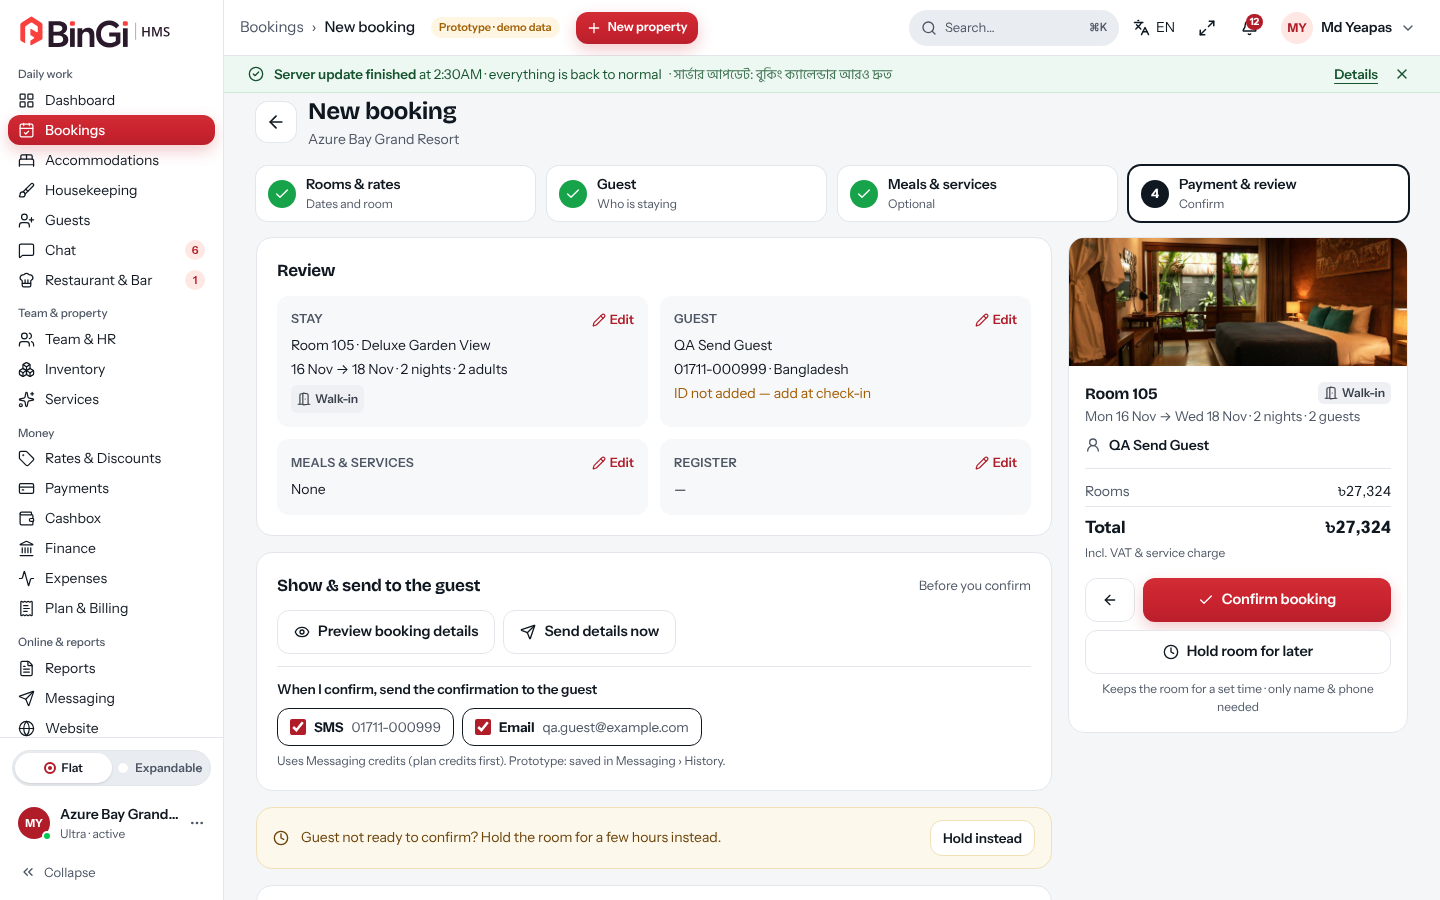
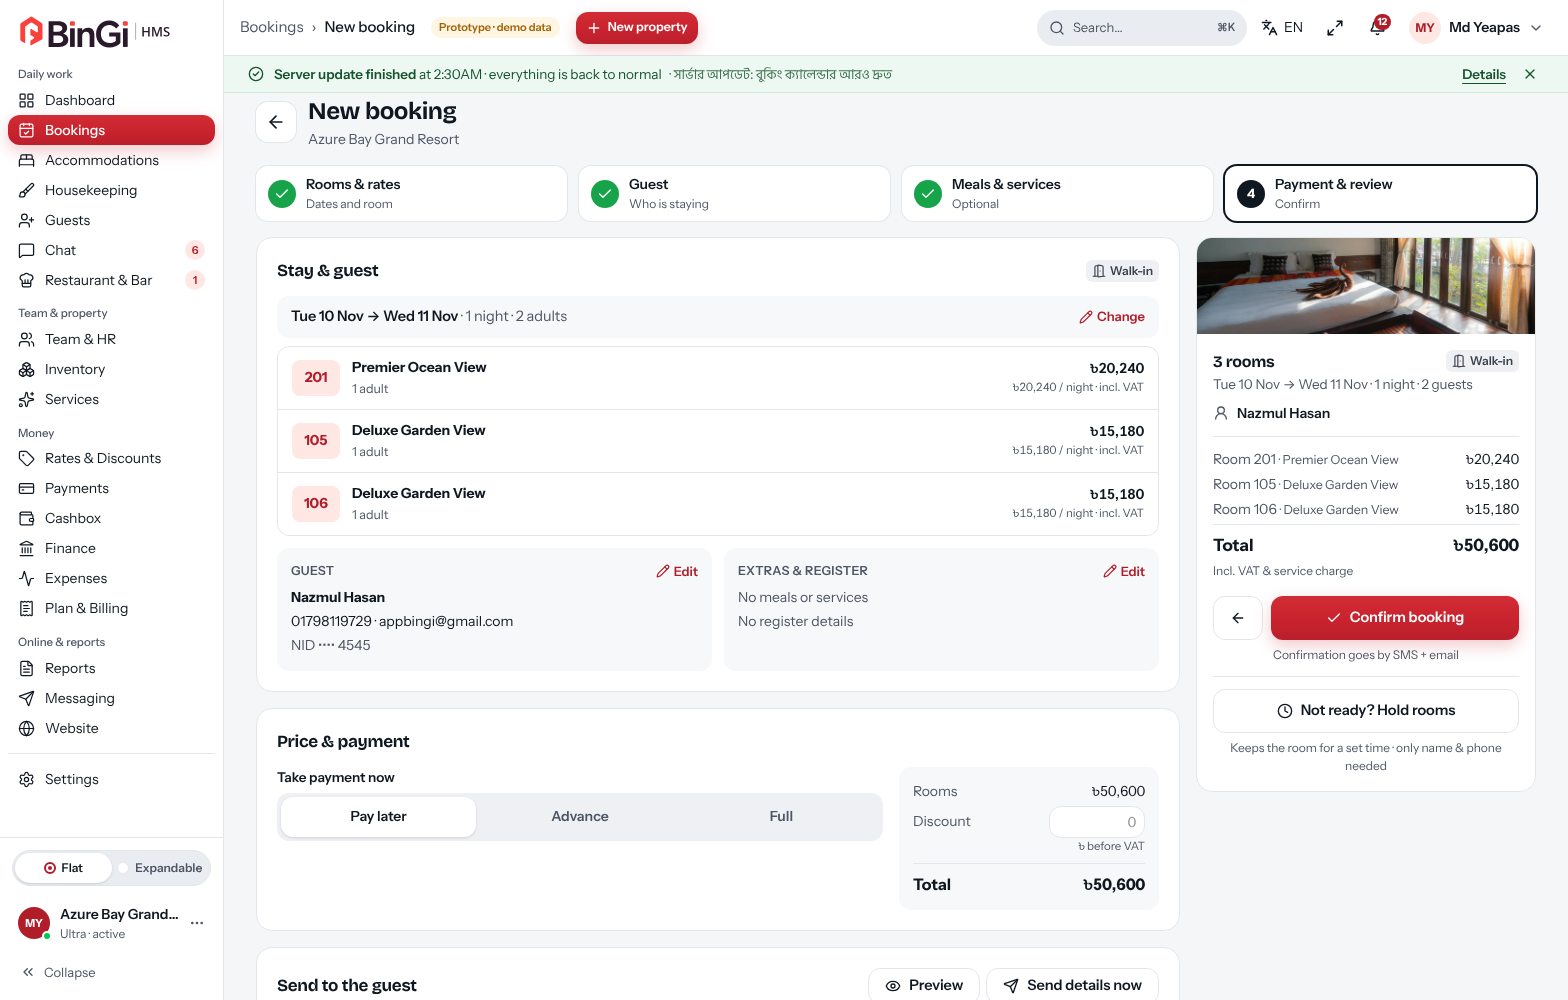
New booking › Payment & review: Stay & guest (room rows, masked ID) → Price & payment (Pay later/Advance/Full, discount with reason) → Send to the guest; summary lists each room; hold moved to the summary only
Claude-Session: https://claude.ai/code/session_01R7iD7nyTUnrEyPYtQ7YvN3

diff --git a/src/components/hms/bookings/new.tsx b/src/components/hms/bookings/new.tsx
@@ -85,6 +85,8 @@ export function NewBookingPage() {
   const [sendOpen, setSendOpen] = useState(false);
   const [sentNote, setSentNote] = useState("");
   const [after, setAfter] = useState<{ sms: boolean; email: boolean } | null>(null);
+  const [payMode, setPayMode] = useState<"later" | "advance" | "full">("later");
+  const [discReason, setDiscReason] = useState("");
   const [busy, setBusy] = useState(false);
   const [holdOpen, setHoldOpen] = useState(false);
   const [hold, setHold] = useState<HoldValue>(() => ({ until: "", reason: "" }));
@@ -118,6 +120,7 @@ export function NewBookingPage() {
   const planOpts = (["breakfast", "lunch", "dinner"] as const).filter((k) => lines.some((l) => l.cat.meals?.[k] === "extra" && l.cat.mealPrices?.[k]));
   const bills = lines.map((l, i) => bill({ nights: l.nights, tax: l.tax, discount: i === 0 ? disc : 0, mealPlan: planOf(l.cat, lineAdults(i)) }));
   const roomTotal = bills.reduce((s, b) => s + b.total, 0);
+  const roomGross = lines.reduce((s, l, i) => s + bill({ nights: l.nights, tax: l.tax, discount: 0, mealPlan: planOf(l.cat, lineAdults(i)) }).total, 0);
   const mealsTotal = meals.reduce((s, m) => s + preMealTotal(m), 0);
   const svcTotal = services.reduce((s, x) => s + x.total, 0);
   const total = roomTotal + mealsTotal + svcTotal;
@@ -125,6 +128,7 @@ export function NewBookingPage() {
   const minStay = lines.map((l) => rates.st.cat[l.u.category]?.[from]?.minStay).find((m) => m && n < m);
   const adv = Math.min(Number(advance) || 0, total);
   const room0 = lines[0]?.code ?? "";
+  const setPay = (k: "later" | "advance" | "full") => { setPayMode(k); setAdvance(k === "later" ? "" : k === "full" ? String(Math.round(total)) : advance && Number(advance) < total ? advance : String(Math.round(total * 0.3))); };
 
   // ---- guest: phone first; a saved guest fills in, a new number opens the form
   const found = !useId && phoneKey(phone).length >= 8 ? g.findByPhone(phone) : undefined;
@@ -190,6 +194,7 @@ export function NewBookingPage() {
   };
   const quoteSpec: SendSpec = { title: "Send booking details", code: "", guest: guestName || "Guest", phone: contactPhone, email: contactEmail, update: quoteText, link: "", docs: [{ id: "quote", label: "Booking details (not confirmed)", note: "Rooms, dates and price", html: quoteHtml }] };
   const submit = () => {
+    if (disc > 0 && !discReason.trim()) { setErr("Add a reason for the discount"); document.querySelector<HTMLInputElement>('[aria-label="Discount reason"]')?.focus(); return; }
     for (let i = 0; i < 3; i++) if (errors[i].length) { setTried({ ...tried, [i]: true }); setStep(i); return; }
     save({});
   };
@@ -209,7 +214,7 @@ export function NewBookingPage() {
       guestId: guestId!, unit: l.code, categoryId: l.u.category, type: l.cat.name, from, to,
       adults: lineAdults(i), children: i === 0 ? children : 0, mealPlan: planOf(l.cat, lineAdults(i)),
       channel, ota: channel === "OTA" ? ota : undefined, channelRef: ref.trim() || undefined,
-      nights: l.nights, tax: l.tax, discount: i === 0 ? disc : 0, note: stay.note.trim(),
+      nights: l.nights, tax: l.tax, discount: i === 0 ? disc : 0, note: [stay.note.trim(), i === 0 && disc > 0 ? `Discount ${tk(disc)}: ${discReason.trim()}` : ""].filter(Boolean).join(" · "),
       purpose: stay.purpose || undefined, comingFrom: stay.comingFrom || undefined, goingTo: stay.goingTo || undefined, eta: stay.eta || undefined,
       companions: i === 0 && comps.length ? comps : undefined,
       booker: stay.booker?.name.trim() ? stay.booker : undefined, payer: stay.payer.kind === "Company" ? stay.payer : undefined,
@@ -241,19 +246,19 @@ export function NewBookingPage() {
   const summary = (
     <div className="overflow-hidden rounded-2xl border border-hms-line bg-white">
       {/* eslint-disable-next-line @next/next/no-img-element -- room photo */}
-      {photo0 ? <img src={imgSrc(photo0)} alt="" className="h-32 w-full object-cover" /> : <div className="grid h-16 place-items-center bg-[#f4f6f8] text-[13px] text-hms-muted">No room picked yet</div>}
+      {photo0 ? <img src={imgSrc(photo0)} alt="" className="h-24 w-full object-cover" /> : <div className="grid h-14 place-items-center bg-[#f4f6f8] text-[13px] text-hms-muted">No room picked yet</div>}
       <div className="p-4">
-        <div className="flex items-start justify-between gap-2"><h2 className="text-[16px] font-bold">{lines.length ? lines.map((l) => `Room ${l.code}`).join(", ") : "Summary"}</h2><ChannelBadge b={{ channel, ota }} /></div>
+        <div className="flex items-start justify-between gap-2"><h2 className="text-[16px] font-bold">{lines.length > 1 ? `${lines.length} rooms` : lines.length ? `Room ${lines[0].code}` : "Summary"}</h2><ChannelBadge b={{ channel, ota }} /></div>
         <p className="text-[13.5px] text-[#4d5664]">{datesOk ? `${dow(from)} ${dm(from)} → ${dow(to)} ${dm(to)} · ${n} night${n > 1 ? "s" : ""}` : "Pick dates"} · {adults + children} guest{adults + children > 1 ? "s" : ""}</p>
         {guestName && <p className="mt-2 flex items-center gap-2 text-[14px] font-semibold"><UserRound className="size-4 text-hms-muted" />{guestName}</p>}
         <div className="mt-3 space-y-1 border-t border-hms-line pt-3 text-[14px]">
-          <div className="flex justify-between"><span className="text-[#4d5664]">Rooms{plan.length && planOpts.length ? " + meal plan" : ""}</span><span className="tabular-nums">{tk(roomTotal)}</span></div>
-          {disc > 0 && <div className="flex justify-between text-[#16693a]"><span>Discount</span><span>−{tk(disc)}</span></div>}
-          {meals.length > 0 && <div className="flex justify-between"><span className="text-[#4d5664]">Meals ({meals.reduce((s, m) => s + m.qty, 0)})</span><span className="tabular-nums">{tk(mealsTotal)}</span></div>}
+          {lines.map((l, i) => <div key={l.code} className="flex justify-between gap-2"><span className="min-w-0 truncate text-[#4d5664]">Room {l.code} <span className="text-[12.5px]">· {l.cat.name}</span></span><span className="shrink-0 tabular-nums">{tk(bill({ nights: l.nights, tax: l.tax, discount: 0, mealPlan: planOf(l.cat, lineAdults(i)) }).total)}</span></div>)}
+          {meals.length > 0 && <div className="flex justify-between"><span className="text-[#4d5664]">Meals ({meals.reduce((t, m) => t + m.qty, 0)})</span><span className="tabular-nums">{tk(mealsTotal)}</span></div>}
           {services.length > 0 && <div className="flex justify-between"><span className="text-[#4d5664]">Services ({services.length})</span><span className="tabular-nums">{tk(svcTotal)}</span></div>}
+          {roomGross > roomTotal && <div className="flex justify-between text-[#16693a]"><span>Discount</span><span>−{tk(roomGross - roomTotal)}</span></div>}
           <div className="flex justify-between border-t border-hms-line pt-2 text-[17px] font-bold"><span>Total</span><span className="tabular-nums">{tk(total)}</span></div>
           <p className="text-[12px] text-hms-muted">Incl. VAT &amp; service charge</p>
-          {adv > 0 && <><div className="flex justify-between text-[#4d5664]"><span>Advance · {method}</span><span>−{tk(adv)}</span></div><div className="flex justify-between font-semibold"><span>Due at the hotel</span><span>{tk(total - adv)}</span></div></>}
+          {adv > 0 && <><div className="flex justify-between text-[#16693a]"><span>Paid now · {method}</span><span>−{tk(adv)}</span></div><div className="flex justify-between font-semibold"><span>Due at the hotel</span><span>{tk(total - adv)}</span></div></>}
         </div>
         {err && <p role="alert" className="mt-3 rounded-lg bg-[#fdecec] px-3 py-2 text-[13px] font-medium text-[#b42318]">{err}</p>}
         <div className="mt-4 hidden gap-2 lg:flex">
@@ -261,8 +266,9 @@ export function NewBookingPage() {
           {step < 3 ? <button onClick={() => go(step + 1)} className={clsx(bMain, "flex-1")}>Next: {STEPS[step + 1][0]}<ArrowRight className="size-4" /></button>
             : <button onClick={submit} disabled={busy} className={clsx(bMain, "flex-1")}><Check className="size-4" />Confirm booking</button>}
         </div>
-        {lines.length > 0 && <div className="mt-2 hidden lg:block">
-          <button onClick={openHold} className={clsx(bSoft, "w-full")}><Clock className="size-4" />Hold room{lines.length > 1 ? "s" : ""} for later</button>
+        {step === 3 && (autoSend.sms && contactPhone || autoSend.email && contactEmail) && <p className="mt-1.5 hidden text-center text-[12px] text-hms-muted lg:block">Confirmation goes by {[autoSend.sms && contactPhone && "SMS", autoSend.email && contactEmail && "email"].filter(Boolean).join(" + ")}</p>}
+        {lines.length > 0 && <div className="mt-3 hidden border-t border-hms-line pt-3 lg:block">
+          <button onClick={openHold} className={clsx(bSoft, "w-full")}><Clock className="size-4" />Not ready? Hold room{lines.length > 1 ? "s" : ""}</button>
           <p className="mt-1.5 text-center text-[12px] text-hms-muted">Keeps the room for a set time · only name &amp; phone needed</p>
         </div>}
       </div>
@@ -383,41 +389,84 @@ export function NewBookingPage() {
           </>}
 
           {step === 3 && <>
-            <Card title="Review">
-              <div className="grid gap-3 sm:grid-cols-2">
-                <Review title="Stay" onEdit={() => go(0)}>{lines.map((l) => `Room ${l.code} · ${l.cat.name}`).join(", ")}<br />{dm(from)} → {dm(to)} · {n} night{n > 1 ? "s" : ""} · {adults} adult{adults > 1 ? "s" : ""}{children ? `, ${children} child` : ""}<br /><span className="inline-flex items-center gap-1.5 pt-1"><ChannelBadge b={{ channel, ota }} />{ref && <span className="text-hms-muted">{ref}</span>}</span></Review>
-                <Review title="Guest" onEdit={() => go(1)}>{guestName}<br />{shown.phone} · {shown.country}<br />{shown.idNo ? `${shown.idType} ${shown.idNo}` : <span className="text-[#a15c00]">ID not added — add at check-in</span>}{stay.companions.filter((c) => c.name.trim()).length ? <><br />+ {stay.companions.filter((c) => c.name.trim()).length} other guest(s)</> : null}</Review>
-                <Review title="Meals & services" onEdit={() => go(2)}>{meals.length + services.length ? `${meals.reduce((s, m) => s + m.qty, 0)} meal(s) · ${services.length} service(s) · ${tk(mealsTotal + svcTotal)}` : "None"}</Review>
-                <Review title="Register" onEdit={() => go(1)}>{[stay.purpose, stay.comingFrom && `from ${stay.comingFrom}`, stay.eta && `arrives ${stay.eta}`, stay.payer.kind === "Company" && `paid by ${stay.payer.name || "company"}`, stay.booker?.name && `booked by ${stay.booker.name}`].filter(Boolean).join(" · ") || "—"}</Review>
+            {/* 1 · what is being booked */}
+            <Card title="Stay & guest" action={<span className="inline-flex items-center gap-1.5"><ChannelBadge b={{ channel, ota }} />{ref && <span className="text-[13px] text-hms-muted">{ref}</span>}</span>}>
+              <div className="flex flex-wrap items-center justify-between gap-2 rounded-xl bg-[#f7f8fa] px-3.5 py-2.5">
+                <p className="text-[14.5px] font-semibold">{dow(from)} {dm(from)} → {dow(to)} {dm(to)} <span className="font-normal text-hms-muted">· {n} night{n > 1 ? "s" : ""} · {adults} adult{adults > 1 ? "s" : ""}{children ? `, ${children} child` : ""}</span></p>
+                <button onClick={() => go(0)} className="inline-flex items-center gap-1 text-[13px] font-semibold text-hms-red"><Pencil className="size-3.5" />Change</button>
+              </div>
+              <ul className="mt-2 divide-y divide-hms-line rounded-xl border border-hms-line">
+                {lines.map((l, i) => (
+                  <li key={l.code} className="flex items-center gap-3 px-3.5 py-2.5">
+                    <span className="grid h-9 min-w-12 place-items-center rounded-lg bg-hms-coral-soft px-2 text-[14px] font-bold text-hms-red">{l.code}</span>
+                    <span className="min-w-0 flex-1"><b className="block truncate text-[14px]">{l.cat.name}</b><span className="text-[12.5px] text-hms-muted">{lineAdults(i)} adult{lineAdults(i) > 1 ? "s" : ""}{i === 0 && children ? `, ${children} child` : ""}{planOf(l.cat, lineAdults(i)) ? ` · ${planOf(l.cat, lineAdults(i))!.name}` : ""}</span></span>
+                    {(() => { const g0 = bill({ nights: l.nights, tax: l.tax, discount: 0, mealPlan: planOf(l.cat, lineAdults(i)) }).total; return <span className="text-right text-[14px] font-semibold tabular-nums">{tk(g0)}<span className="block text-[11.5px] font-normal text-hms-muted">{tk(g0 / Math.max(1, n))} / night · incl. VAT</span></span>; })()}
+                  </li>
+                ))}
+              </ul>
+              <div className="mt-3 grid gap-3 sm:grid-cols-2">
+                <Review title="Guest" onEdit={() => go(1)}>
+                  <b>{guestName}</b><br />{shown.phone}{shown.email && <> · {shown.email}</>}<br />
+                  {shown.idNo ? <span className="text-[#4d5664]">{shown.idType} •••• {shown.idNo.slice(-4)}</span> : <span className="text-[#a15c00]">ID not added — add at check-in</span>}
+                  {stay.companions.filter((c) => c.name.trim()).length ? <><br />+ {stay.companions.filter((c) => c.name.trim()).length} other guest(s)</> : null}
+                </Review>
+                <Review title="Extras & register" onEdit={() => go(meals.length + services.length ? 2 : 1)}>
+                  {meals.length + services.length ? `${meals.reduce((t, m) => t + m.qty, 0)} meal(s) · ${services.length} service(s) · ${tk(mealsTotal + svcTotal)}` : <span className="text-hms-muted">No meals or services</span>}
+                  <br />{[stay.purpose, stay.comingFrom && `from ${stay.comingFrom}`, stay.eta && `arrives ${stay.eta}`, stay.payer.kind === "Company" && `paid by ${stay.payer.name || "company"}`, stay.booker?.name && `booked by ${stay.booker.name}`].filter(Boolean).join(" · ") || <span className="text-hms-muted">No register details</span>}
+                </Review>
               </div>
             </Card>
-            <Card title="Show & send to the guest" action={<span className="text-[13px] text-hms-muted">Before you confirm</span>}>
-              <div className="flex flex-wrap gap-2">
-                <button type="button" onClick={() => setPeek(true)} disabled={!lines.length} className={clsx(bSoft, "disabled:opacity-40")}><Eye className="size-4" />Preview booking details</button>
-                <button type="button" onClick={() => setSendOpen(true)} disabled={!lines.length} className={clsx(bSoft, "disabled:opacity-40")}><Send className="size-4" />Send details now</button>
+
+            {/* 2 · price and payment now */}
+            <Card title="Price & payment">
+              <div className="grid gap-4 md:grid-cols-[1fr_260px]">
+                <div>
+                  <p className={lbl}>Take payment now</p>
+                  <div role="radiogroup" aria-label="Payment now" className="grid grid-cols-3 gap-1.5 rounded-xl bg-[#eef0f3] p-1">
+                    {([["later", "Pay later"], ["advance", "Advance"], ["full", "Full"]] as const).map(([k, l]) => (
+                      <button key={k} type="button" role="radio" aria-checked={payMode === k} onClick={() => setPay(k)} className={clsx("h-10 rounded-lg text-[14px] font-semibold", payMode === k ? "bg-white shadow-sm" : "text-[#4d5664]")}>{l}</button>
+                    ))}
+                  </div>
+                  {payMode !== "later" && <div className="mt-3 space-y-3">
+                    {payMode === "advance" && <div>
+                      <label htmlFor="nb-adv" className={lbl}>Advance (৳)</label>
+                      <div className="flex flex-wrap items-center gap-2">
+                        <input id="nb-adv" inputMode="numeric" value={advance} onChange={(e) => setAdvance(e.target.value.replace(/\D/g, ""))} placeholder="0" className={clsx(input, "!w-40")} />
+                        {total > 0 && [0.3, 0.5].map((f) => <button key={f} type="button" onClick={() => setAdvance(String(Math.round(total * f)))} className="rounded-full bg-[#eef0f3] px-3 py-1.5 text-[13px] font-semibold hover:bg-[#e3e6eb]">{f * 100}% · {tk(total * f)}</button>)}
+                      </div>
+                    </div>}
+                    <div>
+                      <p className={lbl}>Method</p>
+                      <div role="radiogroup" aria-label="Payment method" className="flex flex-wrap gap-1.5">{METHODS.map((m) => <button key={m} type="button" role="radio" aria-checked={method === m} onClick={() => setMethod(m)} className={clsx("h-10 rounded-xl px-4 text-[14px] font-semibold", method === m ? "bg-hms-ink text-white" : "bg-[#eef0f3] text-[#3a414c] hover:bg-[#e3e6eb]")}>{m}</button>)}</div>
+                    </div>
+                  </div>}
+                </div>
+                <div className="rounded-xl bg-[#f7f8fa] p-3.5 text-[14px]">
+                  <div className="flex justify-between"><span className="text-[#4d5664]">Rooms</span><span className="tabular-nums">{tk(roomGross)}</span></div>
+                  {meals.length > 0 && <div className="flex justify-between"><span className="text-[#4d5664]">Meals</span><span className="tabular-nums">{tk(mealsTotal)}</span></div>}
+                  {services.length > 0 && <div className="flex justify-between"><span className="text-[#4d5664]">Services</span><span className="tabular-nums">{tk(svcTotal)}</span></div>}
+                  <div className="mt-1 flex items-center justify-between gap-2"><label htmlFor="nb-di" className="text-[#4d5664]">Discount</label><input id="nb-di" inputMode="numeric" value={discount} onChange={(e) => setDiscount(e.target.value.replace(/\D/g, ""))} placeholder="0" aria-describedby="nb-di-note" className="h-8 w-24 rounded-lg border border-hms-line bg-white px-2 text-right text-[14px] tabular-nums" /></div>
+                  <p id="nb-di-note" className="mt-0.5 text-right text-[11.5px] text-hms-muted">{roomGross > roomTotal ? `= −${tk(roomGross - roomTotal)} incl. VAT` : "৳ before VAT"}</p>
+                  {disc > 0 && <input aria-label="Discount reason" value={discReason} onChange={(e) => setDiscReason(e.target.value)} placeholder="Reason (needed)" className={clsx("mt-1.5 h-8 w-full rounded-lg border bg-white px-2 text-[13px]", discReason.trim() ? "border-hms-line" : "border-[#e9a5a0]")} />}
+                  <div className="mt-2 flex justify-between border-t border-hms-line pt-2 text-[16px] font-bold"><span>Total</span><span className="tabular-nums">{tk(total)}</span></div>
+                  {adv > 0 && <><div className="flex justify-between text-[#16693a]"><span>Paid now · {method}</span><span className="tabular-nums">−{tk(adv)}</span></div><div className="flex justify-between font-semibold"><span>Due at the hotel</span><span className="tabular-nums">{tk(total - adv)}</span></div></>}
+                </div>
+              </div>
+            </Card>
+
+            {/* 3 · what the guest gets */}
+            <Card title="Send to the guest" action={<div className="flex gap-1.5"><button type="button" onClick={() => setPeek(true)} disabled={!lines.length} className={clsx(bSoft, "!h-9 px-3 text-[13.5px] disabled:opacity-40")}><Eye className="size-4" />Preview</button><button type="button" onClick={() => setSendOpen(true)} disabled={!lines.length} className={clsx(bSoft, "!h-9 px-3 text-[13.5px] disabled:opacity-40")}><Send className="size-4" />Send details now</button></div>}>
+              <p className="text-[13.5px] text-[#3a414c]">When I confirm, send the confirmation by</p>
+              <div className="mt-2 flex flex-wrap gap-2">
+                {([["sms", "SMS", contactPhone], ["email", "Email", contactEmail]] as const).map(([k, l, to]) => (
+                  <label key={k} className={clsx("inline-flex items-center gap-2 rounded-xl border px-3 py-2 text-[13.5px]", !to ? "border-dashed border-hms-line text-hms-muted" : autoSend[k] ? "border-hms-ink" : "border-hms-line")}>
+                    <input type="checkbox" disabled={!to} checked={!!to && autoSend[k]} onChange={(e) => setAfter({ ...autoSend, [k]: e.target.checked })} className="size-4 accent-[#b11c29]" />
+                    <b>{l}</b><span className="text-hms-muted">{to || (k === "sms" ? "no phone" : "no email")}</span>
+                  </label>
+                ))}
               </div>
               {sentNote && <p className="mt-2 rounded-lg bg-[#e8f6ee] px-3 py-2 text-[13px] font-medium text-[#16693a]">{sentNote}</p>}
-              <div className="mt-3 border-t border-hms-line pt-3">
-                <p className="text-[13.5px] font-semibold">When I confirm, send the confirmation to the guest</p>
-                <div className="mt-2 flex flex-wrap gap-2">
-                  {([["sms", "SMS", contactPhone], ["email", "Email", contactEmail]] as const).map(([k, l, to]) => (
-                    <label key={k} className={clsx("inline-flex items-center gap-2 rounded-xl border px-3 py-2 text-[13.5px]", !to ? "border-hms-line text-hms-muted" : autoSend[k] ? "border-hms-ink" : "border-hms-line")}>
-                      <input type="checkbox" disabled={!to} checked={!!to && autoSend[k]} onChange={(e) => setAfter({ ...autoSend, [k]: e.target.checked })} className="size-4 accent-[#b11c29]" />
-                      <b>{l}</b><span className="text-hms-muted">{to || (k === "sms" ? "no phone" : "no email — add one in Guest")}</span>
-                    </label>
-                  ))}
-                </div>
-                <p className="mt-1.5 text-[12px] text-hms-muted">Uses Messaging credits (plan credits first). Prototype: saved in Messaging › History.</p>
-              </div>
-            </Card>
-            <div className="flex flex-wrap items-center gap-3 rounded-2xl border border-[#f1dfb8] bg-[#fdf8ec] px-4 py-3 text-[14px] text-[#6b4309]"><Clock className="size-4 shrink-0" /><p className="min-w-0 flex-1">Guest not ready to confirm? Hold the room for a few hours instead.</p><button onClick={openHold} className="h-9 rounded-xl border border-[#f1dfb8] bg-white px-3 text-[13.5px] font-semibold text-hms-ink hover:bg-[#fffaf0]">Hold instead</button></div>
-            <Card title="Advance payment" action={<span className="text-[13px] text-hms-muted">Optional</span>}>
-              <div className="grid gap-3 sm:grid-cols-[200px_1fr]">
-                <div><label htmlFor="nb-adv" className={lbl}>Amount (৳)</label><input id="nb-adv" inputMode="numeric" value={advance} onChange={(e) => setAdvance(e.target.value.replace(/\D/g, ""))} placeholder="0" className={input} /></div>
-                <div><p className={lbl}>Method</p><div role="radiogroup" aria-label="Advance method" className="grid grid-cols-4 gap-1.5">{METHODS.map((m) => <button key={m} type="button" role="radio" aria-checked={method === m} onClick={() => setMethod(m)} className={clsx("h-11 rounded-xl text-[14px] font-semibold", method === m ? "bg-hms-ink text-white" : "bg-[#eef0f3] text-[#3a414c] hover:bg-[#e3e6eb]")}>{m}</button>)}</div></div>
-              </div>
-              {total > 0 && <div className="mt-2 flex flex-wrap gap-1.5">{[0.3, 0.5, 1].map((f) => <button key={f} type="button" onClick={() => setAdvance(String(Math.round(total * f)))} className="rounded-full bg-[#eef0f3] px-3 py-1 text-[13px] font-semibold hover:bg-[#e3e6eb]">{f === 1 ? "Full" : `${f * 100}%`} · {tk(total * f)}</button>)}</div>}
-              {details && <div className="mt-4 border-t border-hms-line pt-4 sm:max-w-[260px]"><label htmlFor="nb-di" className={lbl}>Room discount (৳, before VAT)</label><input id="nb-di" inputMode="numeric" value={discount} onChange={(e) => setDiscount(e.target.value.replace(/\D/g, ""))} placeholder="0" className={input} /></div>}
+              <p className="mt-2 text-[12px] text-hms-muted">“Send details now” shares the booking before you confirm. Uses Messaging credits, plan credits first.</p>
             </Card>
           </>}
         </div>
